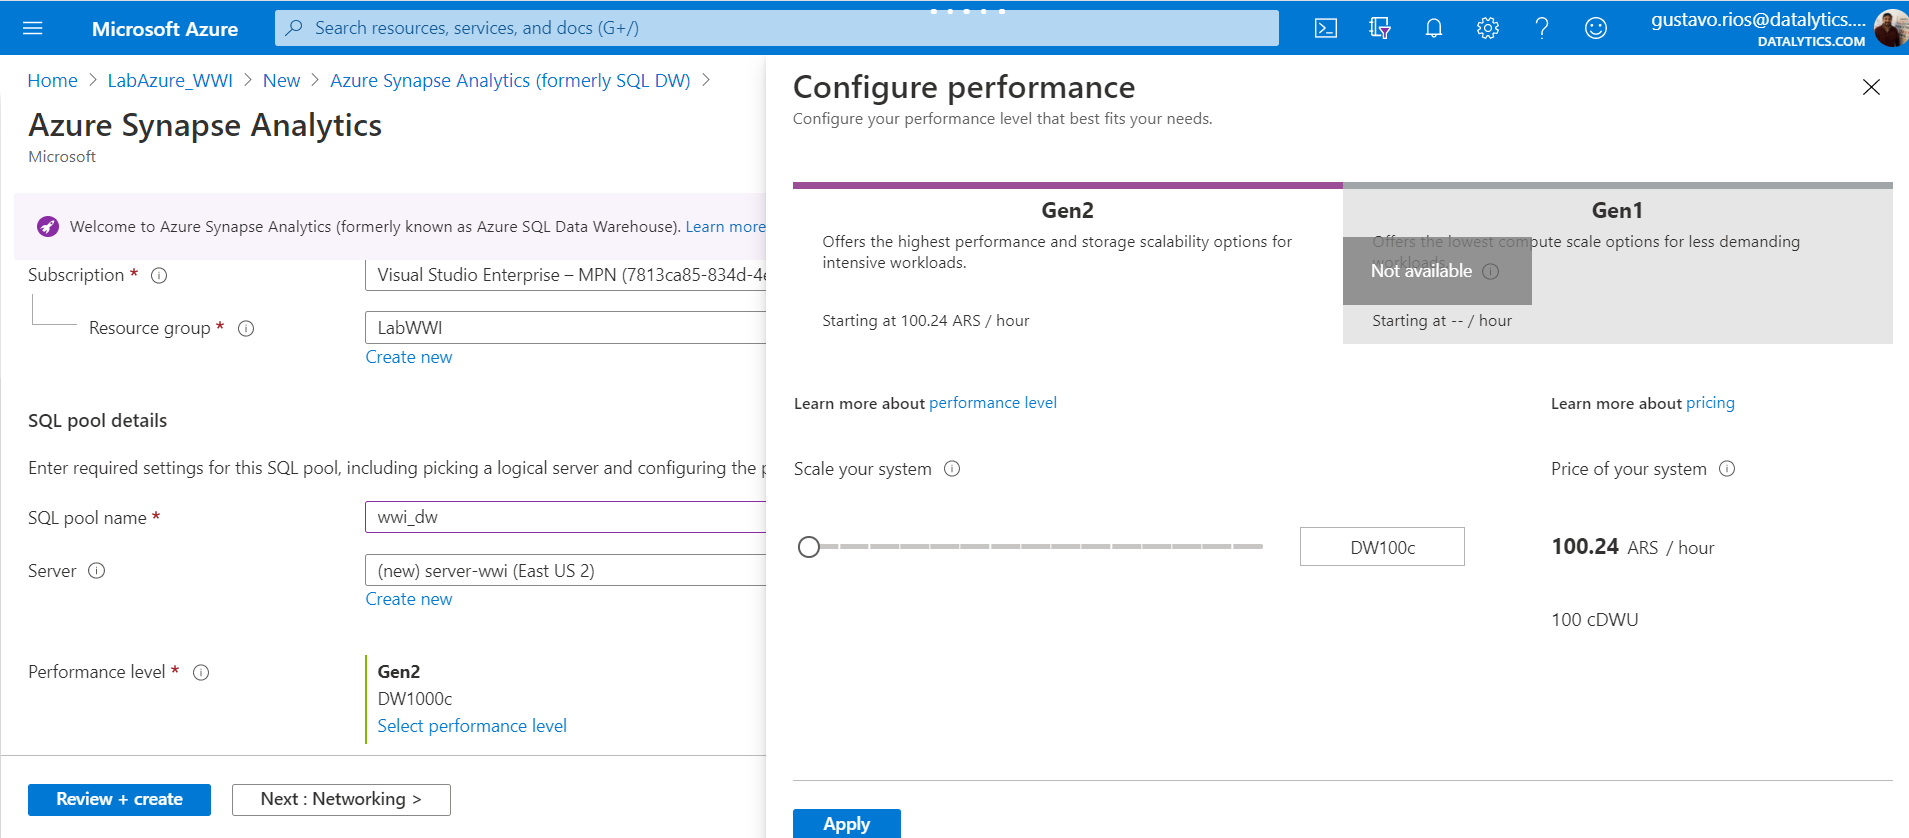
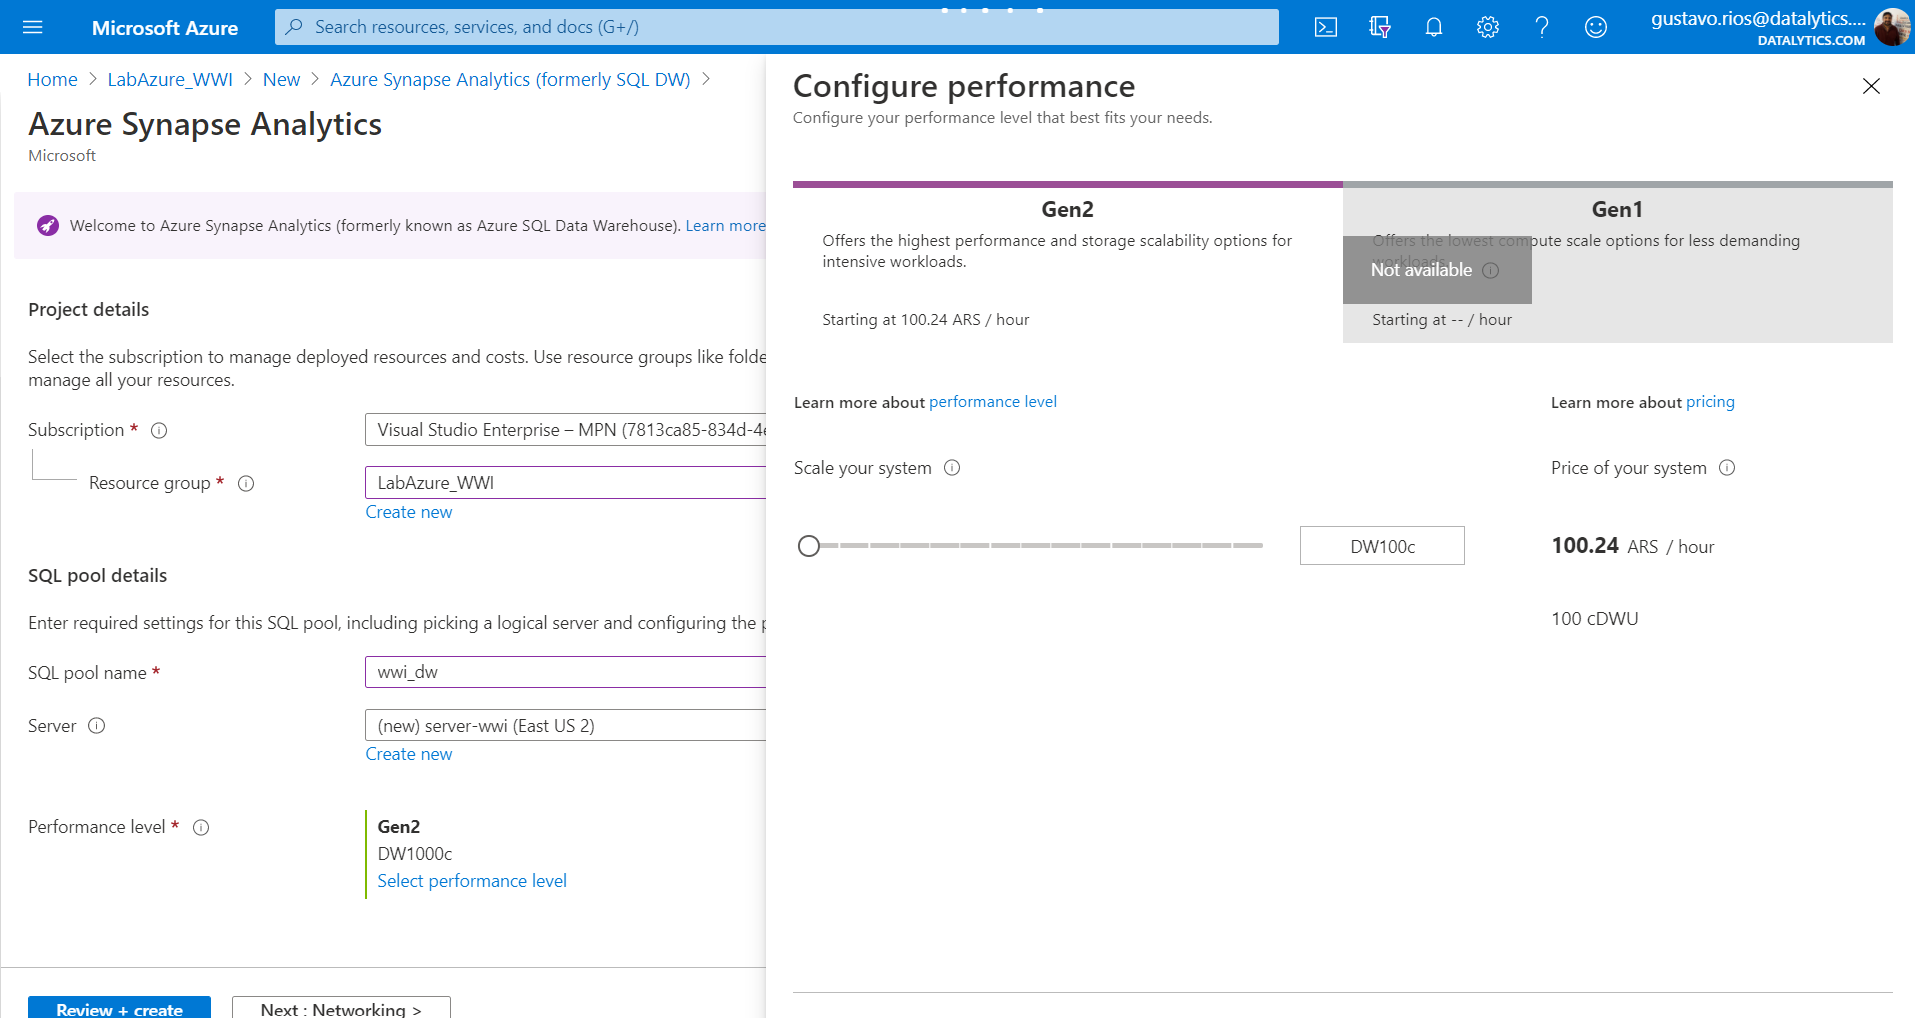
Synapse
Paso a paso actualizado

diff --git a/Creación de Synapse.md b/Creación de Synapse.md
@@ -7,8 +7,9 @@
 		2. Server admin login: _Administrador_
 		3. Password: _labWWI_Azure_
 		4. Location: _(US) East US 2_
+		<img src="images/Synapse_02.png"/><br/>
 	3. Performace level: _Gen2 DW100c_
 	
 	<img src="images/Synapse_01.png"/><br/>
 	
-	<img src="images/Synapse_02.png"/><br/>
+	<img src="images/Synapse_03.png"/><br/>
